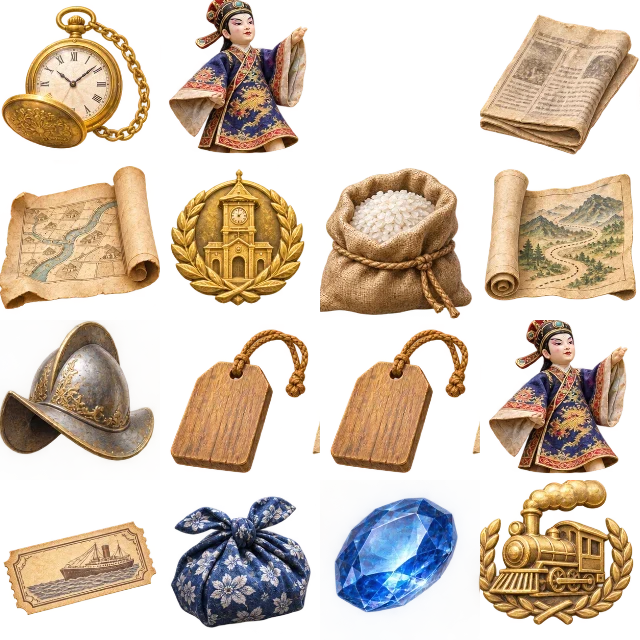
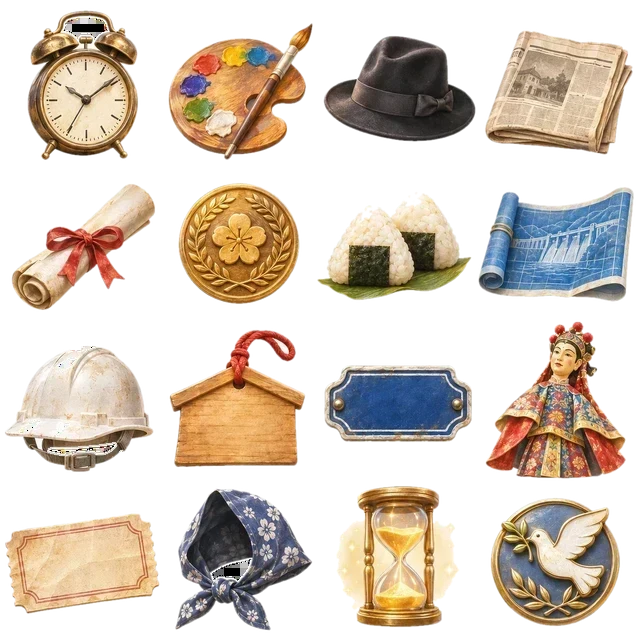
台灣時光探險隊：老師查看學生進度、每章記遊玩紀錄、日治中後期圖片補齊
Claude-Session: https://claude.ai/code/session_01F9dxgZ9nztDvrPd1ymLvdF

diff --git a/遊戲/G5上下社會:台灣時光探險隊小遊戲/index.html b/遊戲/G5上下社會:台灣時光探險隊小遊戲/index.html
@@ -415,6 +415,7 @@ body.holding #pano{cursor:copy;}
 <!-- 封面 -->
 <script class="bz-guard">try{if(!localStorage.getItem("bz_code"))location.replace("../index.html")}catch(e){}</script>
 <script class="bz-session">(function(){var U="https://wbxpqyrkgdaqvtsmijoe.supabase.co/rest/v1/rpc/ping_code",K="sb_publishable_04ZnsTSBxbREalRf2NWfeA_L1rzM9V4";function g(k){try{return localStorage.getItem(k)}catch(e){return null}}function kick(m){try{["bz_code","bz_name","yb_name"].forEach(function(k){localStorage.removeItem(k)});localStorage.setItem("bz_msg",m)}catch(e){}location.replace("../index.html")}function ping(){var c=g("bz_code"),s=g("bz_sid");if(!c||!s||document.hidden)return;fetch(U,{method:"POST",headers:{apikey:K,"Content-Type":"application/json"},body:JSON.stringify({p_code:c,p_sid:s})}).then(function(r){return r.ok?r.json():null}).then(function(r){if(!r)return;if(r.ok===false)kick("這組代碼已停用，請向老師確認。");else if(r.mine===false)kick("這組代碼已經在其他裝置登入，這台裝置先登出了。")}).catch(function(){})}setTimeout(ping,2000);setInterval(ping,60000);document.addEventListener("visibilitychange",function(){if(!document.hidden)ping()})})();</script>
+<script src="../bz-stats.js"></script>
 <section class="screen" id="cover">
   <div class="bg" id="cover-bg"></div><div class="glow"></div><canvas id="sparks"></canvas><div class="shade"></div>
   <a class="bz-back" href="../index.html" style="position:absolute;top:max(12px,env(safe-area-inset-top,0px));left:max(12px,env(safe-area-inset-left,0px));z-index:5;padding:8px 14px;border-radius:999px;font:600 14px/1.4 'PingFang TC','Noto Sans TC',sans-serif;color:#24302B;background:rgba(238,240,232,.92);text-decoration:none;letter-spacing:.06em">← 回遊戲書房</a>
@@ -524,7 +525,7 @@ body.holding #pano{cursor:copy;}
 <div id="toast-root"></div>
 
 <script>
-const IMG={"pano_ch1": "a/pano_ch1.jpg", "thumb_ch1": "a/thumb_ch1.jpg", "pano_ch2": "a/pano_ch2.jpg", "thumb_ch2": "a/thumb_ch2.jpg", "pano_ch3": "a/pano_ch3.jpg", "thumb_ch3": "a/thumb_ch3.jpg", "pano_ch4": "a/pano_ch4.jpg", "thumb_ch4": "a/thumb_ch4.jpg", "pano_s1": "a/pano_s1.jpg", "thumb_s1": "a/thumb_s1.jpg", "pano_s2": "a/pano_s2.jpg", "thumb_s2": "a/thumb_s2.jpg", "pano_s3": "a/pano_s3.jpg", "thumb_s3": "a/thumb_s3.jpg", "pano_s4": "a/pano_s4.jpg", "thumb_s4": "a/thumb_s4.jpg", "pano_s5": "a/pano_s5.jpg", "thumb_s5": "a/thumb_s5.jpg", "pano_z1": "a/pano_z1.jpg", "thumb_z1": "a/thumb_z1.jpg", "pano_z2": "a/pano_z2.jpg", "thumb_z2": "a/thumb_z2.jpg", "pano_z3": "a/pano_z3.jpg", "thumb_z3": "a/thumb_z3.jpg", "pano_q1": "a/pano_q1.jpg", "thumb_q1": "a/thumb_q1.jpg", "pano_q2": "a/pano_q2.jpg", "thumb_q2": "a/thumb_q2.jpg", "pano_q3": "a/pano_q3.jpg", "thumb_q3": "a/thumb_q3.jpg", "pano_q4": "a/pano_q4.jpg", "thumb_q4": "a/thumb_q4.jpg", "pano_r1": "a/pano_r1.jpg", "thumb_r1": "a/thumb_r1.jpg", "pano_r2": "a/pano_r2.jpg", "thumb_r2": "a/thumb_r2.jpg", "pano_r3": "a/pano_r3.jpg", "thumb_r3": "a/thumb_r3.jpg", "pano_r4": "a/pano_r4.jpg", "thumb_r4": "a/thumb_r4.jpg", "pano_j1": "a/pano_j1.jpg", "thumb_j1": "a/thumb_j1.jpg", "pano_j2": "a/pano_j2.jpg", "thumb_j2": "a/thumb_j2.jpg", "pano_j3": "a/pano_j3.jpg", "thumb_j3": "a/thumb_j3.jpg", "pano_j4": "a/pano_j4.jpg", "thumb_j4": "a/thumb_j4.jpg", "pano_k1": "a/pano_k1.jpg", "thumb_k1": "a/thumb_k1.jpg", "pano_k2": "a/pano_k2.jpg", "thumb_k2": "a/thumb_k2.jpg", "pano_k3": "a/pano_k3.jpg", "thumb_k3": "a/thumb_k3.jpg", "pano_k4": "a/pano_k4.jpg", "thumb_k4": "a/thumb_k4.jpg", "pano_k5": "a/pano_k5.jpg", "thumb_k5": "a/thumb_k5.jpg", "e_sea": "a/e_sea.jpg", "e_zheng": "a/e_zheng.jpg", "e_qing1": "a/e_qing1.jpg", "e_japan": "a/e_japan.jpg", "e_post": "a/e_post.jpg", "cover": "a/cover.jpg", "c1": "a/c1.webp", "c2": "a/c2.webp", "c3": "a/c3.webp", "c4": "a/c4.webp", "c5": "a/c5.webp", "c6": "a/c6.webp", "acai": "a/acai.webp", "afu": "a/afu.webp", "ahai": "a/ahai.webp", "ama2": "a/ama2.webp", "aming": "a/aming.webp", "ashui": "a/ashui.webp", "ashun": "a/ashun.webp", "atian": "a/atian.webp", "atu": "a/atu.webp", "ayong": "a/ayong.webp", "beadtrader": "a/beadtrader.webp", "boatboss": "a/boatboss.webp", "boatman": "a/boatman.webp", "boss": "a/boss.webp", "boss_jp1": "a/boss_jp1.webp", "boss_jp2": "a/boss_jp2.webp", "boss_qing1": "a/boss_qing1.webp", "boss_qing2": "a/boss_qing2.webp", "boss_sea": "a/boss_sea.webp", "boss_zheng": "a/boss_zheng.webp", "captain": "a/captain.webp", "chen": "a/chen.webp", "chenyh": "a/chenyh.webp", "coyett": "a/coyett.webp", "dcap": "a/dcap.webp", "deer1": "a/deer1.webp", "deer2": "a/deer2.webp", "deer3": "a/deer3.webp", "doctor": "a/doctor.webp", "dodd": "a/dodd.webp", "driver": "a/driver.webp", "girl": "a/girl.webp", "granny": "a/granny.webp", "haru": "a/haru.webp", "hatta": "a/hatta.webp", "hosei": "a/hosei.webp", "huang": "a/huang.webp", "hunter": "a/hunter.webp", "items": "a/items.webp", "items_jp1": "a/items_jp1.webp", "items_jp2": "a/items_jp2.webp", "items_qing1": "a/items_qing1.webp", "items_qing2": "a/items_qing2.webp", "items_sea": "a/items_sea.webp", "items_zheng": "a/items_zheng.webp", "jade": "a/jade.webp", "jama": "a/jama.webp", "jiang": "a/jiang.webp", "jlin": "a/jlin.webp", "keisatsu": "a/keisatsu.webp", "kenichi": "a/kenichi.webp", "kid": "a/kid.webp", "koxinga": "a/koxinga.webp", "leader": "a/leader.webp", "lichun": "a/lichun.webp", "linxt": "a/linxt.webp", "liu": "a/liu.webp", "mackay": "a/mackay.webp", "marco": "a/marco.webp", "miaogong": "a/miaogong.webp", "mother": "a/mother.webp", "operator": "a/operator.webp", "padre": "a/padre.webp", "painter": "a/painter.webp", "pastor": "a/pastor.webp", "picker": "a/picker.webp", "prof": "a/prof.webp", "quan": "a/quan.webp", "reader": "a/reader.webp", "roadsoldier": "a/roadsoldier.webp", "scholar": "a/scholar.webp", "shen": "a/shen.webp", "shi": "a/shi.webp", "smith": "a/smith.webp", "stationmaster": "a/stationmaster.webp", "stone": "a/stone.webp", "teller": "a/teller.webp", "tokei": "a/tokei.webp", "toothache": "a/toothache.webp", "tuncap": "a/tuncap.webp", "uncle": "a/uncle.webp", "vander": "a/vander.webp", "wu": "a/wu.webp", "xiucai": "a/xiucai.webp", "yuan": "a/yuan.webp", "zhang": "a/zhang.webp"};
+const IMG={"pano_ch1": "a/pano_ch1.jpg", "thumb_ch1": "a/thumb_ch1.jpg", "pano_ch2": "a/pano_ch2.jpg", "thumb_ch2": "a/thumb_ch2.jpg", "pano_ch3": "a/pano_ch3.jpg", "thumb_ch3": "a/thumb_ch3.jpg", "pano_ch4": "a/pano_ch4.jpg", "thumb_ch4": "a/thumb_ch4.jpg", "pano_s1": "a/pano_s1.jpg", "thumb_s1": "a/thumb_s1.jpg", "pano_s2": "a/pano_s2.jpg", "thumb_s2": "a/thumb_s2.jpg", "pano_s3": "a/pano_s3.jpg", "thumb_s3": "a/thumb_s3.jpg", "pano_s4": "a/pano_s4.jpg", "thumb_s4": "a/thumb_s4.jpg", "pano_s5": "a/pano_s5.jpg", "thumb_s5": "a/thumb_s5.jpg", "pano_z1": "a/pano_z1.jpg", "thumb_z1": "a/thumb_z1.jpg", "pano_z2": "a/pano_z2.jpg", "thumb_z2": "a/thumb_z2.jpg", "pano_z3": "a/pano_z3.jpg", "thumb_z3": "a/thumb_z3.jpg", "pano_q1": "a/pano_q1.jpg", "thumb_q1": "a/thumb_q1.jpg", "pano_q2": "a/pano_q2.jpg", "thumb_q2": "a/thumb_q2.jpg", "pano_q3": "a/pano_q3.jpg", "thumb_q3": "a/thumb_q3.jpg", "pano_q4": "a/pano_q4.jpg", "thumb_q4": "a/thumb_q4.jpg", "pano_r1": "a/pano_r1.jpg", "thumb_r1": "a/thumb_r1.jpg", "pano_r2": "a/pano_r2.jpg", "thumb_r2": "a/thumb_r2.jpg", "pano_r3": "a/pano_r3.jpg", "thumb_r3": "a/thumb_r3.jpg", "pano_r4": "a/pano_r4.jpg", "thumb_r4": "a/thumb_r4.jpg", "pano_j1": "a/pano_j1.jpg", "thumb_j1": "a/thumb_j1.jpg", "pano_j2": "a/pano_j2.jpg", "thumb_j2": "a/thumb_j2.jpg", "pano_j3": "a/pano_j3.jpg", "thumb_j3": "a/thumb_j3.jpg", "pano_j4": "a/pano_j4.jpg", "thumb_j4": "a/thumb_j4.jpg", "pano_k1": "a/pano_k1.jpg", "thumb_k1": "a/thumb_k1.jpg", "pano_k2": "a/pano_k2.jpg", "thumb_k2": "a/thumb_k2.jpg", "pano_k3": "a/pano_k3.jpg", "thumb_k3": "a/thumb_k3.jpg", "pano_k4": "a/pano_k4.jpg", "thumb_k4": "a/thumb_k4.jpg", "pano_k5": "a/pano_k5.jpg", "thumb_k5": "a/thumb_k5.jpg", "e_sea": "a/e_sea.jpg", "e_zheng": "a/e_zheng.jpg", "e_qing1": "a/e_qing1.jpg", "e_japan": "a/e_japan.jpg", "e_post": "a/e_post.jpg", "cover": "a/cover.jpg", "c1": "a/c1.webp", "c2": "a/c2.webp", "c3": "a/c3.webp", "c4": "a/c4.webp", "c5": "a/c5.webp", "c6": "a/c6.webp", "acai": "a/acai.webp", "afu": "a/afu.webp", "ahai": "a/ahai.webp", "ama2": "a/ama2.webp", "aming": "a/aming.webp", "ashui": "a/ashui.webp", "ashun": "a/ashun.webp", "atian": "a/atian.webp", "atu": "a/atu.webp", "ayong": "a/ayong.webp", "beadtrader": "a/beadtrader.webp", "boatboss": "a/boatboss.webp", "boatman": "a/boatman.webp", "boss": "a/boss.webp", "boss_jp1": "a/boss_jp1.webp", "boss_jp2": "a/boss_jp2.webp", "boss_qing1": "a/boss_qing1.webp", "boss_qing2": "a/boss_qing2.webp", "boss_sea": "a/boss_sea.webp", "boss_zheng": "a/boss_zheng.webp", "brother": "a/brother.webp", "captain": "a/captain.webp", "chen": "a/chen.webp", "chenyh": "a/chenyh.webp", "coyett": "a/coyett.webp", "dcap": "a/dcap.webp", "deer1": "a/deer1.webp", "deer2": "a/deer2.webp", "deer3": "a/deer3.webp", "deptgirl": "a/deptgirl.webp", "doctor": "a/doctor.webp", "dodd": "a/dodd.webp", "driver": "a/driver.webp", "girl": "a/girl.webp", "granny": "a/granny.webp", "haru": "a/haru.webp", "hatta": "a/hatta.webp", "hosei": "a/hosei.webp", "huang": "a/huang.webp", "hunter": "a/hunter.webp", "items": "a/items.webp", "items_jp1": "a/items_jp1.webp", "items_jp2": "a/items_jp2.webp", "items_qing1": "a/items_qing1.webp", "items_qing2": "a/items_qing2.webp", "items_sea": "a/items_sea.webp", "items_zheng": "a/items_zheng.webp", "jade": "a/jade.webp", "jama": "a/jama.webp", "jiang": "a/jiang.webp", "jlin": "a/jlin.webp", "keisatsu": "a/keisatsu.webp", "kenichi": "a/kenichi.webp", "kid": "a/kid.webp", "koxinga": "a/koxinga.webp", "leader": "a/leader.webp", "lichun": "a/lichun.webp", "linxt": "a/linxt.webp", "liu": "a/liu.webp", "mackay": "a/mackay.webp", "marco": "a/marco.webp", "miaogong": "a/miaogong.webp", "mother": "a/mother.webp", "operator": "a/operator.webp", "padre": "a/padre.webp", "painter": "a/painter.webp", "pastor": "a/pastor.webp", "picker": "a/picker.webp", "prof": "a/prof.webp", "quan": "a/quan.webp", "reader": "a/reader.webp", "roadsoldier": "a/roadsoldier.webp", "scholar": "a/scholar.webp", "shen": "a/shen.webp", "shi": "a/shi.webp", "smith": "a/smith.webp", "stationmaster": "a/stationmaster.webp", "stone": "a/stone.webp", "teller": "a/teller.webp", "tokei": "a/tokei.webp", "toothache": "a/toothache.webp", "tuncap": "a/tuncap.webp", "uncle": "a/uncle.webp", "vander": "a/vander.webp", "wu": "a/wu.webp", "xiucai": "a/xiucai.webp", "yuan": "a/yuan.webp", "zhang": "a/zhang.webp"};
 const PANO={"ch1": {"W0": 1350, "WA": 1350, "WB": 1350, "ov": 200, "L": 2300, "H": 900, "tAL": 0, "tBL": 0}, "ch2": {"W0": 1350, "WA": 1350, "WB": 1070, "ov": 200, "L": 2020, "H": 900, "tAL": 0, "tBL": 280}, "ch3": {"W0": 1350, "WA": 1260, "WB": 1350, "ov": 70, "L": 2470, "H": 900, "tAL": 0, "tBL": 0}, "ch4": {"W0": 1350, "WA": 1350, "WB": 1350, "ov": 70, "L": 2560, "H": 900, "tAL": 0, "tBL": 0}, "s1": {"W0": 1350, "WA": 1350, "WB": 1350, "ov": 50, "L": 2600, "H": 900, "tAL": 0, "tBL": 0}, "s2": {"W0": 1350, "WA": 1350, "WB": 1350, "ov": 80, "L": 2540, "H": 900, "tAL": 0, "tBL": 0}, "s3": {"W0": 1350, "WA": 1350, "WB": 1350, "ov": 80, "L": 2540, "H": 900, "tAL": 0, "tBL": 0}, "s4": {"W0": 1350, "WA": 1350, "WB": 1350, "ov": 80, "L": 2540, "H": 900, "tAL": 0, "tBL": 0}, "s5": {"W0": 1350, "WA": 1350, "WB": 1350, "ov": 80, "L": 2540, "H": 900, "tAL": 0, "tBL": 0}, "z1": {"W0": 1350, "WA": 1350, "WB": 1350, "ov": 80, "L": 2540, "H": 900, "tAL": 0, "tBL": 0}, "z2": {"W0": 1350, "WA": 1350, "WB": 1350, "ov": 80, "L": 2540, "H": 900, "tAL": 0, "tBL": 0}, "z3": {"W0": 1350, "WA": 1350, "WB": 1350, "ov": 80, "L": 2540, "H": 900, "tAL": 0, "tBL": 0}, "q1": {"W0": 1350, "WA": 1350, "WB": 1350, "ov": 80, "L": 2540, "H": 900, "tAL": 0, "tBL": 0}, "q2": {"W0": 1350, "WA": 1350, "WB": 1350, "ov": 80, "L": 2540, "H": 900, "tAL": 0, "tBL": 0}, "q3": {"W0": 1350, "WA": 1350, "WB": 1350, "ov": 80, "L": 2540, "H": 900, "tAL": 0, "tBL": 0}, "q4": {"W0": 1350, "WA": 1350, "WB": 1350, "ov": 80, "L": 2540, "H": 900, "tAL": 0, "tBL": 0}, "r1": {"W0": 1350, "WA": 1350, "WB": 1350, "ov": 80, "L": 2540, "H": 900, "tAL": 0, "tBL": 0}, "r2": {"W0": 1350, "WA": 1350, "WB": 1350, "ov": 80, "L": 2540, "H": 900, "tAL": 0, "tBL": 0}, "r3": {"W0": 1350, "WA": 1350, "WB": 1350, "ov": 80, "L": 2540, "H": 900, "tAL": 0, "tBL": 0}, "r4": {"W0": 1350, "WA": 1350, "WB": 1350, "ov": 80, "L": 2540, "H": 900, "tAL": 0, "tBL": 0}, "j1": {"W0": 1350, "WA": 1350, "WB": 1350, "ov": 80, "L": 2540, "H": 900, "tAL": 0, "tBL": 0}, "j2": {"W0": 1350, "WA": 1350, "WB": 1350, "ov": 80, "L": 2540, "H": 900, "tAL": 0, "tBL": 0}, "j3": {"W0": 1350, "WA": 1350, "WB": 1350, "ov": 80, "L": 2540, "H": 900, "tAL": 0, "tBL": 0}, "j4": {"W0": 1350, "WA": 1350, "WB": 1350, "ov": 80, "L": 2540, "H": 900, "tAL": 0, "tBL": 0}, "k1": {"W0": 1350, "WA": 1350, "WB": 1350, "ov": 80, "L": 2540, "H": 900, "tAL": 0, "tBL": 0}, "k2": {"W0": 1350, "WA": 1350, "WB": 1350, "ov": 80, "L": 2540, "H": 900, "tAL": 0, "tBL": 0}, "k3": {"W0": 1350, "WA": 1350, "WB": 1350, "ov": 80, "L": 2540, "H": 900, "tAL": 0, "tBL": 0}, "k4": {"W0": 1350, "WA": 1350, "WB": 1350, "ov": 80, "L": 2540, "H": 900, "tAL": 0, "tBL": 0}, "k5": {"W0": 1350, "WA": 1350, "WB": 1350, "ov": 80, "L": 2540, "H": 900, "tAL": 0, "tBL": 0}};
 const HEROES=[
   {id:"c1",type:"考古迷",tag:"觀察力",desc:"拿著放大鏡和小刷子，任何一塊石頭都不放過。最擅長從小線索拼出大故事。",stats:{觀察:5,勇氣:3,知識:4},names:["阿哲","小石","凱凱"]},
@@ -2940,7 +2941,7 @@ CHAPTERS.push(
       {t:"改成一天 10 個小時",r:"一天還是 24 小時啦。"}]},
      fx:{take:["alarm"],card:"shoushi"}}],
    wrong:[["aming","「{item}」？我需要的是能看時間的東西！"]]},
-  {id:"dept",name:"百貨公司小姐",role:"百貨公司的店員",s:"a",x:93,y:48,
+  {id:"dept",name:"百貨公司小姐",role:"百貨公司的店員",por:"deptgirl",s:"a",x:93,y:48,
    talks:[
     {if:["!f:met"],lines:[["dept","歡迎光臨！"]]},
     {if:["!c:modernlife"],lines:[["dept","歡迎來到百貨公司！這是南臺灣第一間百貨公司，還有會動的電梯喔！"],["dept","星期日大家放假，就會穿上最漂亮的衣服來逛街、看電影、喝咖啡。"]],fx:{card:"modernlife",give:["riceball"]},after:[["dept","這個飯糰請你吃，是用新的蓬萊米做的喔！"]]},
@@ -3218,7 +3219,7 @@ CHAPTERS.push(
       {t:"因為大家都不想吃米",r:"不是這樣的。"}]},
      fx:{take:["ration"],card:"ration",give:["yam"]},after:[["haikyu","米不夠，就多吃點番薯吧。"]]}],
    wrong:[["haikyu","「{item}」？要配給券才行。"]]},
-  {id:"brother",name:"健一的哥哥",role:"要出征的青年",s:"b",x:22,y:16,
+  {id:"brother",name:"健一的哥哥",role:"要出征的青年",por:"brother",s:"b",x:22,y:16,
    talks:[
     {if:["!c:ration"],lines:[["brother","……"]]},
     {if:["!c:draft"],lines:[["brother","我被徵召了，明天就要坐船去南洋。"],["brother","戰爭越打越大，很多臺灣年輕人被派去當軍伕、志願兵，後來連徵兵都開始了。弟弟的同學們，也被動員去工廠和機場工作……"],["brother","我答應媽媽，一定會回來。"]],
@@ -3740,6 +3741,7 @@ function sortGame(m){return new Promise(res=>{const items=shuffle(m.items.map(([
 /* ================= 章節完成 ================= */
 async function finishChapter(){const st=chs(CH.id);if(st.done)return;const stars=st.miss===0?3:st.miss<=2?2:1;
   st.done=true;st.stars=Math.max(st.stars||0,stars);save();refresh();SFX.win();
+  try{if(window.bzLog)bzLog("twtime",CH.id,stars,true);}catch(e){}
   const i=CHAPTERS.indexOf(CH),EL=eraChs(CH.era),last=EL.indexOf(CH)===EL.length-1,ER=eraOf(CH);
   const hid=CH.spots.filter(s=>s.hidden),found=hid.filter(s=>st.flags.includes("seen:"+s.id)).length;
   if(CH.outro)await playLines(CH.outro);closeVN();

diff --git a/遊戲/teacher.html b/遊戲/teacher.html
@@ -96,6 +96,18 @@ td.name{font-weight:700}
     </div>
     <p class="note">「玩了幾次」是每玩完一關算一次。「全破」是每一關都過關過。排行榜每兩個月清除時，這裡的紀錄也會一起清除（舊資料有備份）。</p>
   </section>
+  <section class="card" id="tw" hidden>
+    <h2 style="margin:0">台灣時光探險隊・學生進度</h2>
+    <p class="sub" style="margin:0">從遊戲書房登入玩的孩子，進度存在雲端，這裡看得到每個人玩到哪裡。</p>
+    <div class="stats" id="twStats"></div>
+    <div class="tablewrap">
+      <table>
+        <thead><tr><th>姓名</th><th>代碼</th><th>玩到哪裡</th><th>完成章數</th><th>星星</th><th>史料卡</th><th>打倒魔王</th><th>最後玩</th></tr></thead>
+        <tbody id="twBody"></tbody>
+      </table>
+    </div>
+    <p class="note">共 29 章、7 個時代魔王，每章最多 3 顆星（滿分 87 顆）。「玩到哪裡」是完成的最後一章。</p>
+  </section>
 </div>
 <script>
 const SUPABASE_URL = "https://wbxpqyrkgdaqvtsmijoe.supabase.co";
@@ -176,7 +188,7 @@ async function login(pass){
       const r = await fetch(SUPABASE_URL + '/rest/v1/game_levels?select=game,title&order=title', { headers:{ apikey:SUPABASE_KEY } });
       (await r.json()).forEach(g => $('game').insertAdjacentHTML('beforeend', `<option value="${esc(g.game)}">${esc(g.title)}</option>`));
     }catch(e){}
-    $('login').hidden = true; $('report').hidden = false; render();
+    $('login').hidden = true; $('report').hidden = false; render(); loadTw();
   }catch(err){
     try{ sessionStorage.removeItem('bz_tpass'); }catch(e){}
     $('loginMsg').textContent = err.wrong ? '密碼不對，請再試一次。' : '讀取失敗：' + err.message; $('loginMsg').className = 'msg err';
@@ -184,6 +196,28 @@ async function login(pass){
   $('loginBtn').disabled = false;
 }
 
+
+/* ===== 台灣時光探險隊：學生進度 ===== */
+const TW_ERAS=[["史前時代",["ch1","ch2","ch3","ch4"]],["大航海時代",["s1","s2","s3","s4","s5"]],["明鄭時期",["z1","z2","z3"]],
+  ["清領前期",["q1","q2","q3","q4"]],["清領後期",["r1","r2","r3","r4"]],["日治前期",["j1","j2","j3","j4"]],["日治中後期",["k1","k2","k3","k4","k5"]],["戰後臺灣",[]]];
+function twWhere(done){let last=null;TW_ERAS.forEach(([n,ids])=>ids.forEach((id,k)=>{if(done.includes(id))last=n+" 第 "+(k+1)+" 章";}));return last||"剛開始";}
+let TW=[];
+async function loadTw(){
+  const show=['all','twtime'].includes($('game').value);
+  if(!show){$('tw').hidden=true;return;}
+  try{TW=await rpc('teacher_twtime',{p_pass:PASS})||[];}catch(e){$('tw').hidden=true;return;}
+  $('tw').hidden=false;renderTw();
+}
+function renderTw(){
+  const q=$('q').value.trim().toUpperCase();
+  const rows=TW.filter(r=>!q||r.name.toUpperCase().includes(q)||r.code.includes(q));
+  $('twStats').innerHTML=`<span><b>${rows.length}</b>位孩子玩過</span><span><b>${rows.filter(r=>r.chapters>=29).length}</b>位全部完成</span>`;
+  $('twBody').innerHTML=rows.length?rows.map(r=>`<tr><td class="name">${esc(r.name)}</td><td data-l="代碼">${esc(r.code)}</td><td data-l="玩到">${esc(twWhere(r.done_chs||[]))}</td><td class="num" data-l="完成">${r.chapters} / 29</td><td class="num" data-l="星星">${r.stars} / 87</td><td class="num" data-l="史料卡">${r.cards}</td><td class="num" data-l="魔王">${r.bosses} / 7</td><td data-l="最後玩">${fmt(r.last_played)}</td></tr>`).join('')
+    :`<tr><td colspan="8">${q?'找不到這個名字。':'還沒有孩子玩過。'}</td></tr>`;
+}
+$('game').addEventListener('change', loadTw);
+$('q').addEventListener('input', renderTw);
+$('reload').addEventListener('click', loadTw);
 $('login').addEventListener('submit', e => { e.preventDefault(); login($('pass').value); });
 $('game').addEventListener('change', load);
 $('q').addEventListener('input', render);
